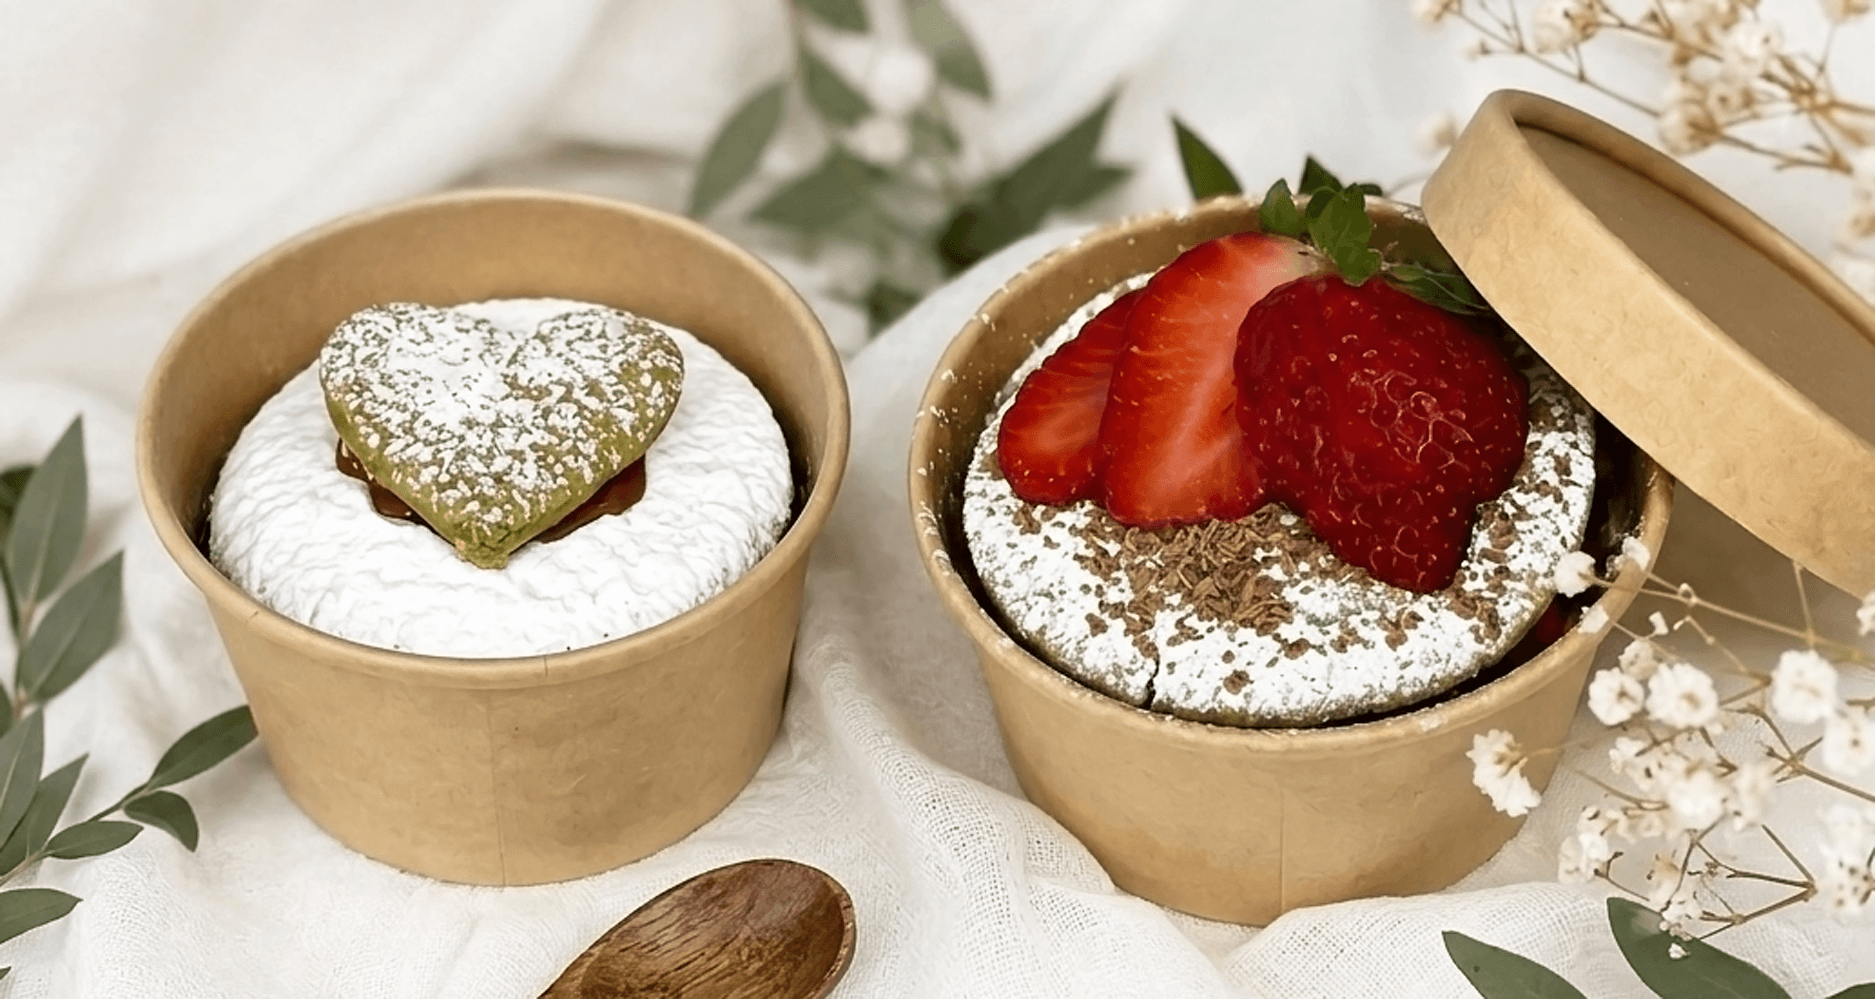
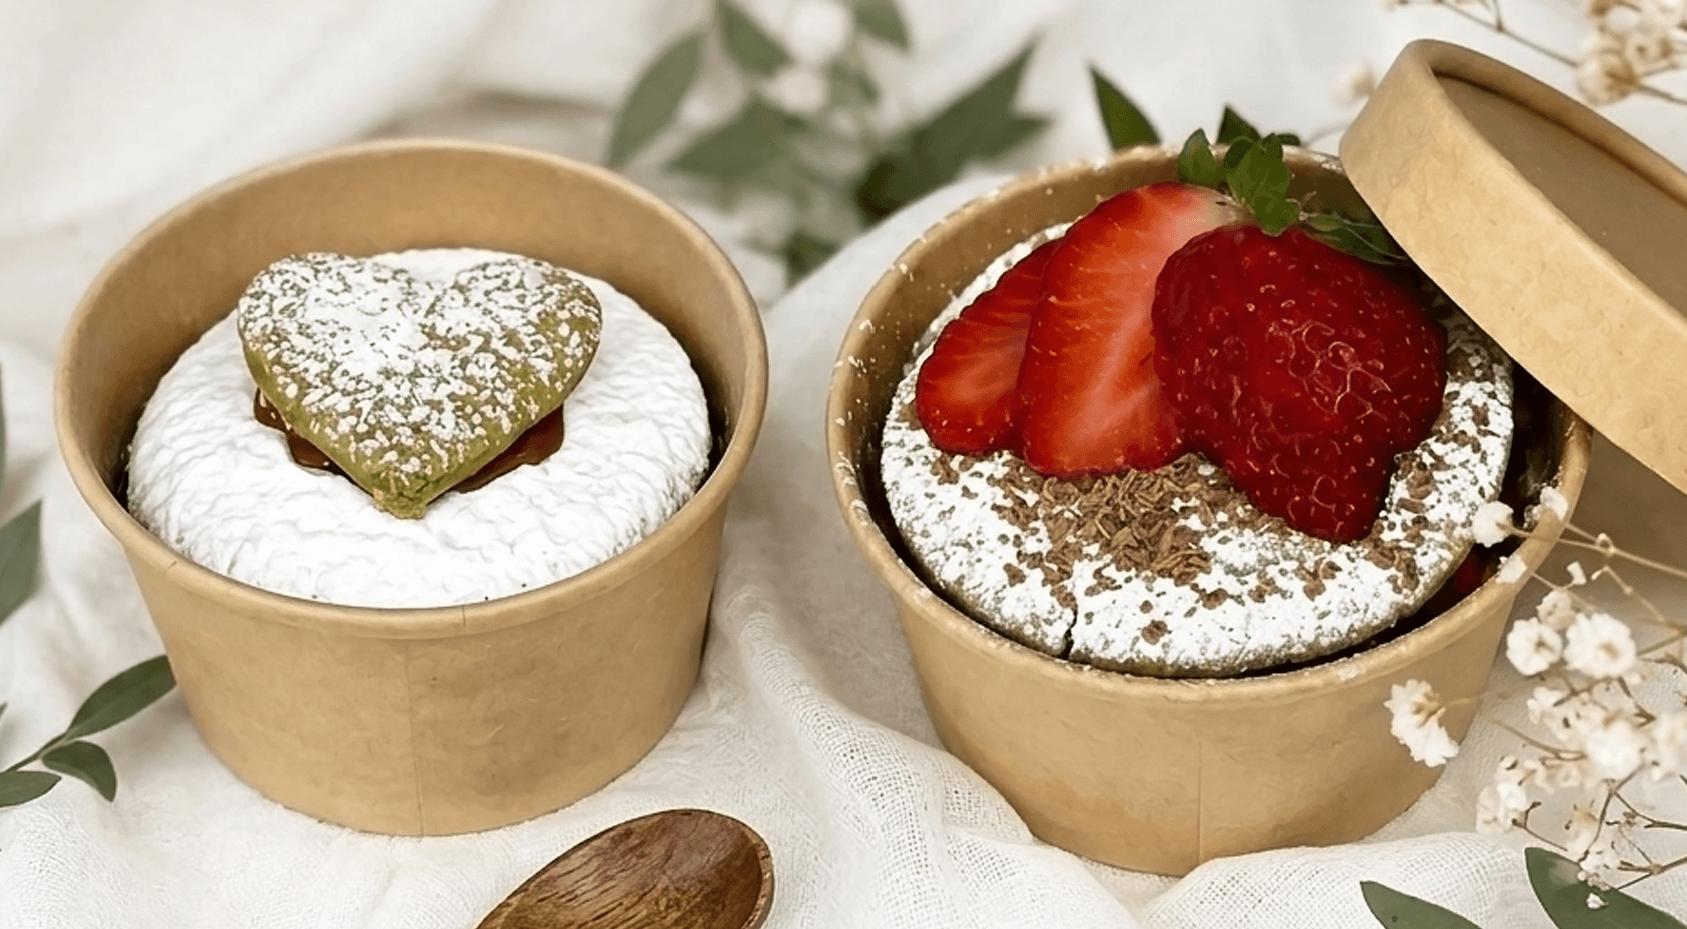
pagina de productos

diff --git a/src/styles/global.css b/src/styles/global.css
@@ -3,10 +3,9 @@
 @import "tailwindcss";
 
 body{
-   color: #8c7d6d;
+   color: #736355;
 }
 
-h1,
 .sb-special {
    font-family: "Prata", serif;
 }
